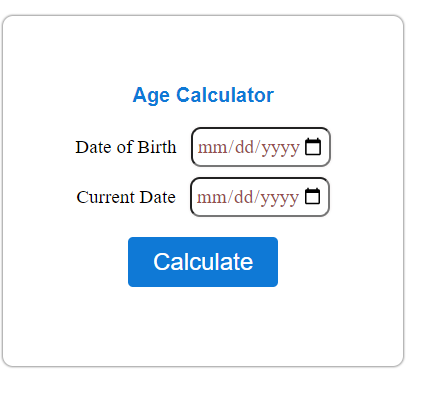
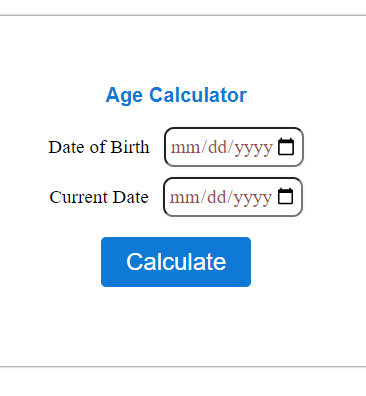
project setup

diff --git a/index.html b/index.html
@@ -12,12 +12,14 @@
         <div class="container">
             <nav>
                 <img src="/images/logo.png" class="logo" alt="logo" />
-                <ul>
-                    <li><a href="#">Home</a></li>
+                <ul id="sidemenu">
+                    <li><a href="#header">Home</a></li>
                     <li><a href="#about">About</a></li>
                     <li><a href="#portfolio">Portfolio</a></li>
                     <li><a href="#contact">Contact</a></li>
+                    <i class="fas fa-times" onclick="closemenu()"></i>
                 </ul>
+                <i class="fas fa-bars" onclick="openmenu()"></i>
             </nav>
             <div class="header-text">
                 <p>Front-end Developer</p>
@@ -83,11 +85,11 @@
                     </div>
                 </div>
                 <div class="work">
-                    <img src="/images/project5.png" alt="">
+                    <img src="/images/project2.png" alt="">
                     <div class="layer">
-                        <h3>Contact App</h3>
+                        <h3>Golf Website</h3>
                         <p>Lorem ipsum, dolor sit amet consectetur adipisicing elit. Magni omnis fuga veritatis incidunt labore tempore!</p>
-                        <a href="#"><i class="fas fa-external-link-alt"></i></a>
+                        <a href="https://golfwebsite.netlify.app/" target="_blank"><i class="fas fa-external-link-alt"></i></a>
                     </div>
                 </div>
                 <div class="work">
@@ -95,7 +97,31 @@
                     <div class="layer">
                         <h3>Contact App</h3>
                         <p>Lorem ipsum, dolor sit amet consectetur adipisicing elit. Magni omnis fuga veritatis incidunt labore tempore!</p>
-                        <a href="#"><i class="fas fa-external-link-alt"></i></a>
+                        <a href="https://foodcafe-kk.netlify.app/" target="_blank"><i class="fas fa-external-link-alt"></i></a>
+                    </div>
+                </div>
+                <div class="work">
+                    <img src="/images/project4.png" alt="">
+                    <div class="layer">
+                        <h3>Youtube Clone</h3>
+                        <p>Lorem ipsum, dolor sit amet consectetur adipisicing elit. Magni omnis fuga veritatis incidunt labore tempore!</p>
+                        <a href="https://youtube-kk.netlify.app/" target="_blank"><i class="fas fa-external-link-alt"></i></a>
+                    </div>
+                </div>
+                <div class="work">
+                    <img src="/images/project5.png" alt="">
+                    <div class="layer">
+                        <h3>Contact App</h3>
+                        <p>Lorem ipsum, dolor sit amet consectetur adipisicing elit. Magni omnis fuga veritatis incidunt labore tempore!</p>
+                        <a href="https://agecalculator-kk.netlify.app/" target="_blank"><i class="fas fa-external-link-alt"></i></a>
+                    </div>
+                </div>
+                <div class="work">
+                    <img src="/images/project6.png" alt="">
+                    <div class="layer">
+                        <h3>Calculator</h3>
+                        <p>Lorem ipsum, dolor sit amet consectetur adipisicing elit. Magni omnis fuga veritatis incidunt labore tempore!</p>
+                        <a href="https://calculatorkulveer.netlify.app/" target="_blank"><i class="fas fa-external-link-alt"></i></a>
                     </div>
                 </div>
             </div>
@@ -108,7 +134,7 @@
     <div class="container">
         <div class="row">
             <div class="contact-left">
-                <h1 class="sub-title">Contact me</h1>
+                <h1 class="sub-title">Contact Me</h1>
                 <p><i class="fas fa-paper-plane"></i>contact@gmail.com</p>
                 <p><i class="fas fa-phone-square-alt"></i>7017078186</p>
                 <div class="social-icons">
@@ -129,6 +155,9 @@
             </div>
         </div>
     </div>
+    <div class="copyright">
+        <p>©2023 Made with <i class="fas fa-heart"></i> by Kulveer. | All Rights Reserved</p>
+    </div>
 </div>
 
     <script>
@@ -146,6 +175,17 @@
             document.getElementById(tabname).classList.add("active-tab");
         }
 
+
+        var sidemeu = document.getElementById("sidemenu");
+
+        function openmenu(){
+         sidemeu.style.right = "4px";
+        }
+        function closemenu(){
+        sidemeu.style.right = "-200px";
+        }
+
     </script>
+
 </body>
 </html>

diff --git a/style.css b/style.css
@@ -6,6 +6,9 @@
     box-sizing: border-box;
     font-family: 'Poppins', sans-serif;
 }
+html {
+    scroll-behavior: smooth;
+}
 body {
     background: #080808;
     color: #fff;
@@ -18,14 +21,19 @@ body {
     background-position: center;
 }
 .container {
-    padding: 10px 10%;
+    padding: 0px 5%;
     align-items: center;
+    margin-top: -20px;
 }
 nav {
     display: flex;
     align-items: center;
     justify-content: space-between;
     flex-wrap: wrap;
+    margin-top: 5px;
+}
+nav img {
+    cursor: pointer;
 }
 .logo {
     width: 140px;
@@ -34,6 +42,7 @@ nav ul li {
     display: inline-block;
     list-style: none;
     margin: 10px 20px;
+    margin-bottom: 20px;
 }
 nav ul li a {
     color: #fff;
@@ -74,8 +83,11 @@ nav ul li a:hover::after {
 /* about */
 
 #about {
-    padding: 80px;
+    padding: 80px 0;
     color: #ababab;
+}
+#about .sub-title {
+    font-size: 40px;
 }
 .row {
     display: flex;
@@ -114,7 +126,7 @@ nav ul li a:hover::after {
     transition: 0.5s;
 }
 .tab-links.active-link::after {
-    width: 50%;
+    width: 50%; 
 }
 .tab-contents ul li {
     list-style: none;
@@ -136,9 +148,12 @@ nav ul li a:hover::after {
 #portfolio{
     padding: 50px 0;
 }
+#portfolio .sub-title {
+    font-size: 40px;
+}
 .work-list {
     display: grid;
-    grid-template-columns: repeat(auto-fit, minmax(250px, 1fr));
+    grid-template-columns: repeat(auto-fit, minmax(333px, 1fr));
     grid-gap: 40px;
     margin-top: 50px;
 }
@@ -196,11 +211,17 @@ nav ul li a:hover::after {
 
 /* Contact  */
 
+#contact {
+    margin-top: 60px;
+}
 .contact-left {
     flex-basis: 35%;
 }
 .contact-right {
     flex-basis: 60%;
+}
+.contact-left h1 {
+    font-size: 40px;
 }
 .contact-left p {
     margin-top: 30px;
@@ -254,4 +275,108 @@ form .btn2 {
     margin-top: 15px;
     cursor: pointer;
     border: none;
+}
+
+.copyright {
+    width: 100%;
+    text-align: center;
+    padding: 15px 0;
+    background: #262626;
+    font-weight: 300;
+    margin-top: 20px;
+}
+.copyright i {
+    color: #ff004f;
+}
+
+
+/* media queries for small screen */
+nav .fas {
+    display: none;
+}
+
+@media only screen and (max-width:600px) {
+    #header {
+        background-image: url(/images/back2\ -\ Copy.png);
+    }   
+    #header {
+        flex-basis: 100%;
+        width: 100%;
+    }
+    .header-text {
+        margin: 100%;
+        font-size: 16px;
+        margin-top: 10px;
+        margin-left: 10px;
+    }
+    
+    .header-text p {
+        font-size: 15px;
+        white-space: nowrap;
+    }
+    .header-text h1 {
+        font-size: 25px;
+        white-space: nowrap;
+        gap: 20px;
+    }
+    nav .fas {
+        display: block;
+        font-size: 25px;
+        margin-right: 15px;
+    }
+    nav ul {
+        background: #ff004f;
+        position: fixed;
+        top: 0;
+        right: -200px;
+        width: 200px;
+        height: 100vh;
+        padding-top: 60px;
+        z-index: 2;
+        transition: right 0.5s;
+    }
+    nav ul li {
+        display: block;
+        margin: 25px;
+    }
+    nav ul .fas {
+        position: absolute;
+        top: 30px;
+        left: 25px;
+        cursor: pointer;
+    }
+    .container {
+        padding: 20px;
+        align-items: center;
+        flex-basis: 100%;
+        margin-top: -40px;
+    }
+    .sub-title {
+        font-size: 40px;
+        text-align: center;
+    }
+    .about-col-1 img {
+        flex-basis: 100%;
+        width: 100%;
+    }
+    .about-col-1, .about-col-2 {
+        flex-basis: 100%;
+    }
+    .about-col-1 {
+        margin-bottom: 30px;
+    }
+    .about-col-2 {
+        font-size: 14px;
+    }
+    .tab-links {
+        font-size: 16px;
+        margin-right: 20px;
+    }
+    .contact-left, .contact-right {
+        flex-basis: 100%;
+    }
+    .copyright {
+        font-size: 14px;
+    }
+
 }
